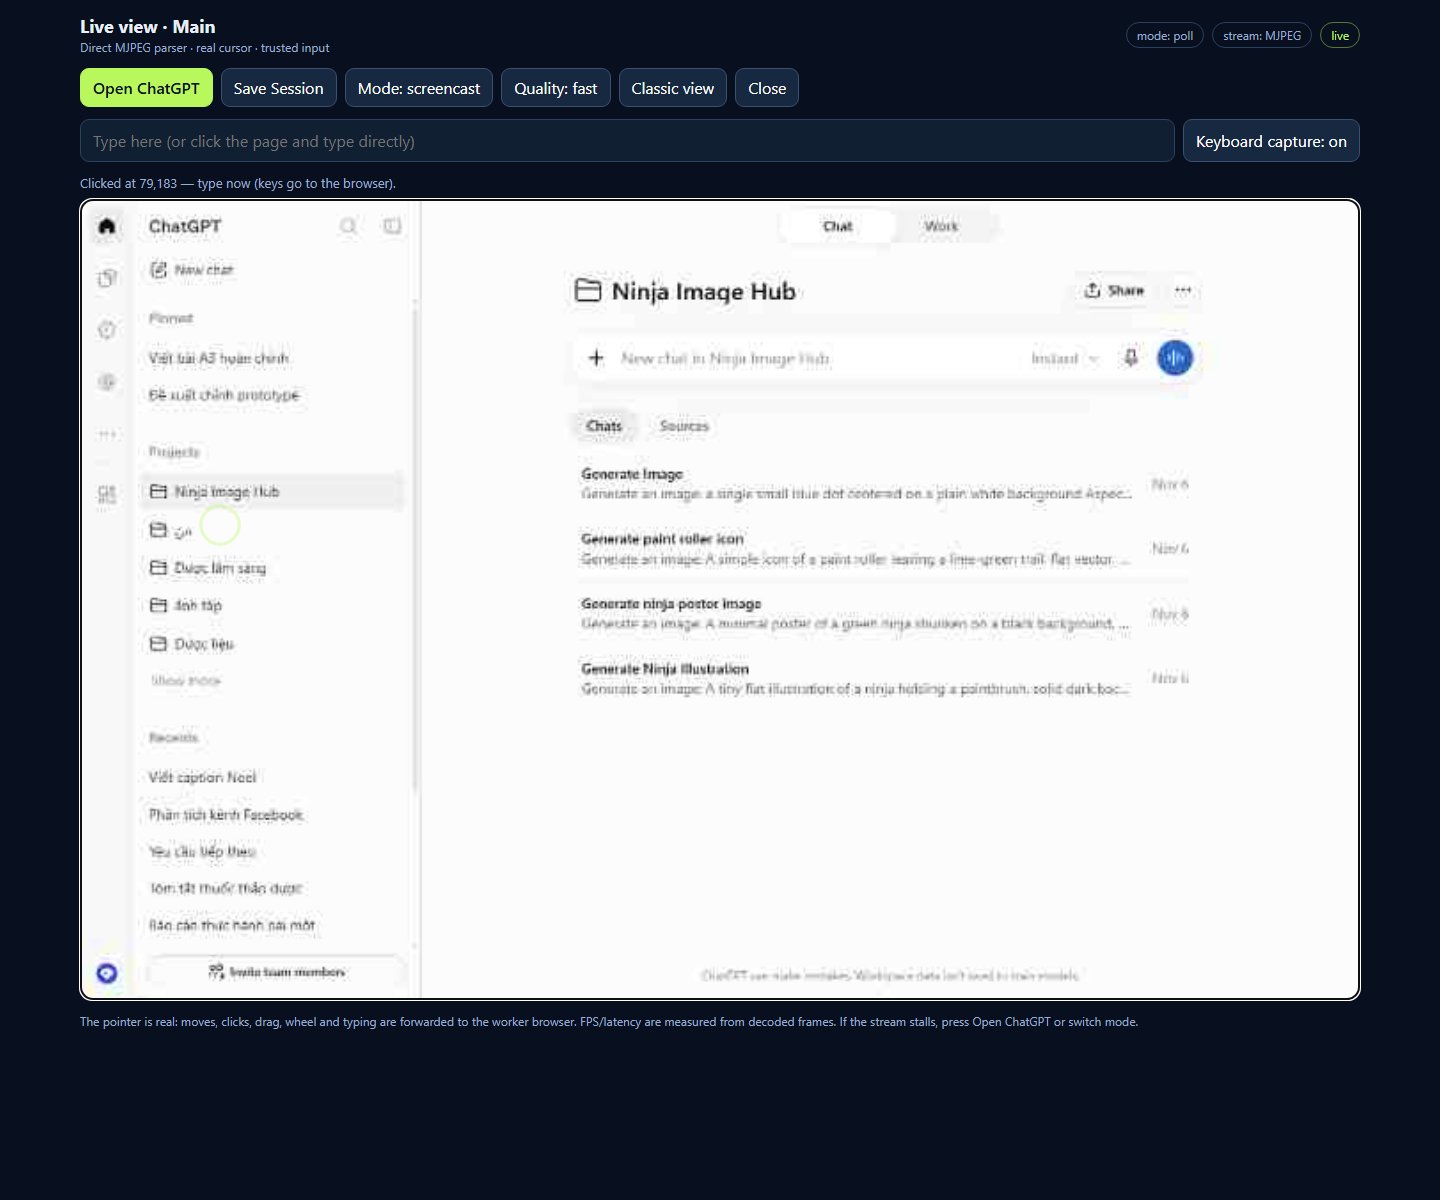
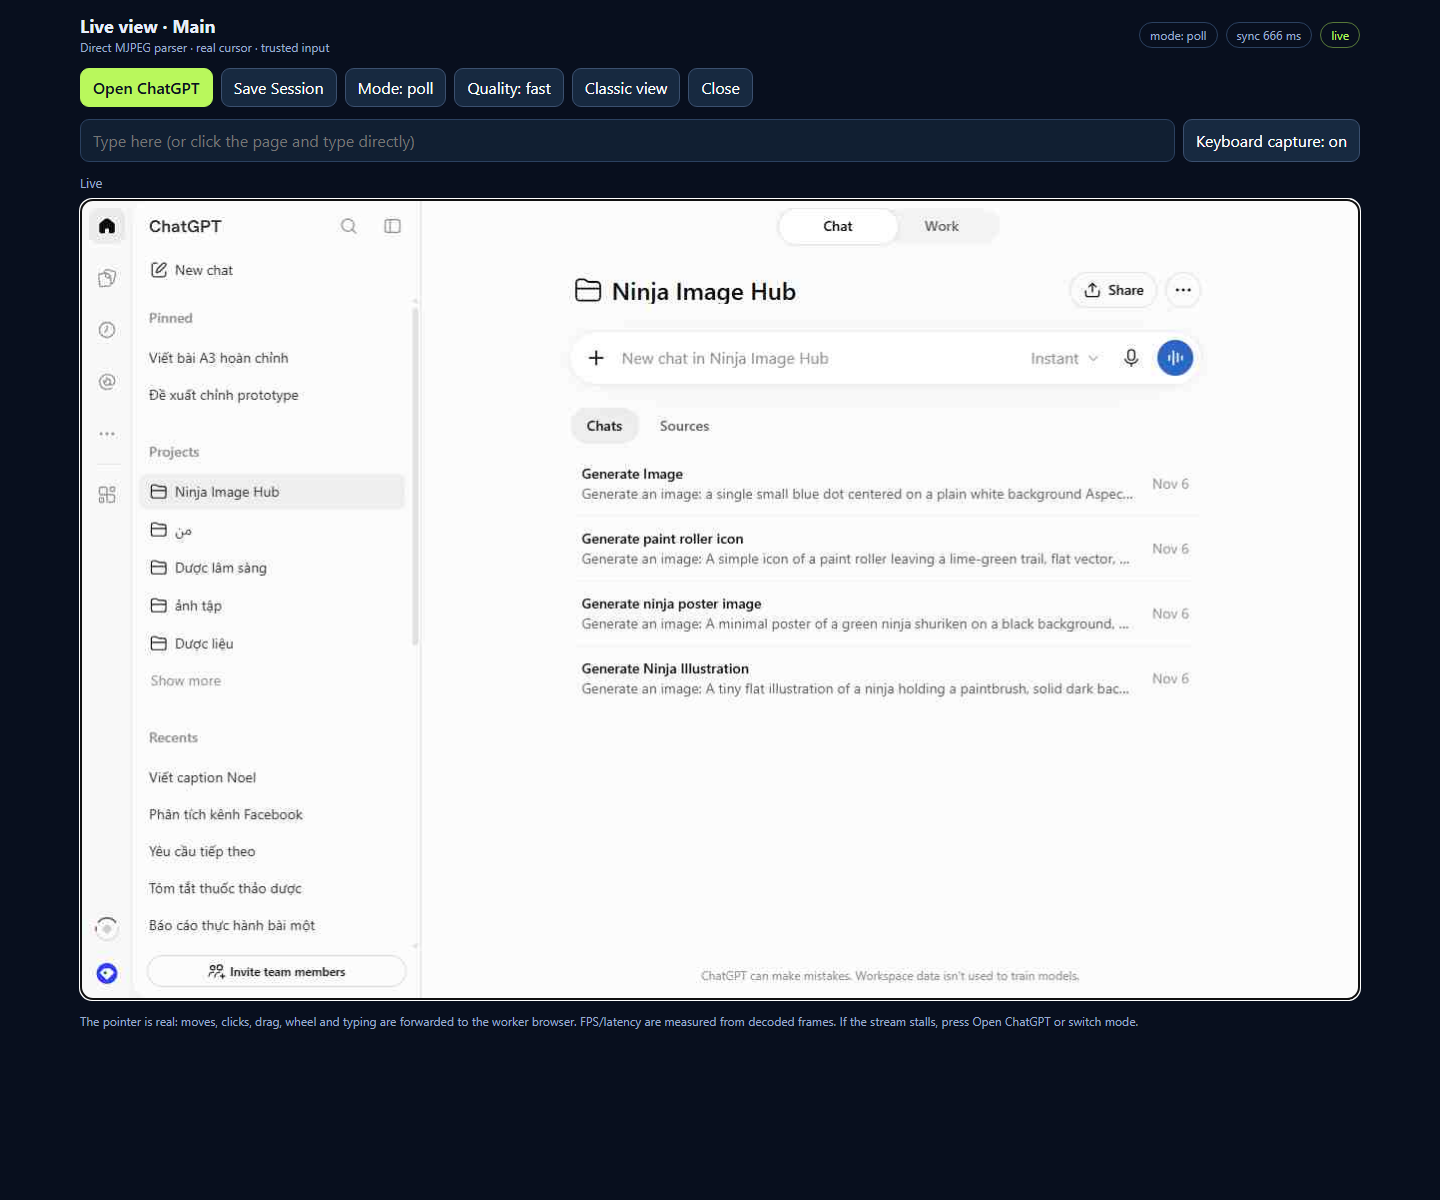
fix(live): make clicks reliable and stop black/slow frames
Root causes found while debugging 'clicks do nothing':
1. screencast returns BLACK frames when the worker Chrome window is minimized or
   occluded - the page looked frozen even though input was delivered;
2. captureScreenshot in that state took ~1 s, so 'sync' showed ~950 ms;
3. pointerdown could use a stale coordinate because the last pointermove was
   throttled away.

Fixes:
- poll mode is the default again (captures the surface reliably) with automatic
  black-frame detection that switches away from screencast if it goes dark
- new POST /api/accounts/{id}/remote/focus restores/foregrounds the worker window
  on Windows (no-op on Linux/Xvfb); live view calls it before streaming
- every click now sends a fresh mouse move + press in one batch, and double-click
  sends two full click pairs
- live page keeps focus on the remote page (no panel-input steal); ripple + smart
  cursor kept; docs refreshed
- verified: input POST 200, ripple fires, canvas updates after clicks; 117 passed

diff --git a/hub/live_page.py b/hub/live_page.py
@@ -45,7 +45,7 @@ PAGE = r"""<!doctype html>
   <div class="toolbar">
     <button class="primary" id="openChatgpt">Open ChatGPT</button>
     <button id="saveSession">Save Session</button>
-    <button id="modeBtn">Mode: screencast</button>
+    <button id="modeBtn">Mode: poll</button>
     <button id="qualityBtn">Quality: fast</button>
     <button id="classicView">Classic view</button>
     <button id="closeView">Close</button>
@@ -65,7 +65,7 @@ PAGE = r"""<!doctype html>
 const ACCOUNT = __ACCOUNT__;
 const CSRF = __CSRF__;
 const CLASSIC_URL = __CLASSIC__;
-let mode = localStorage.getItem('ninja-live-mode') || 'screencast';
+let mode = localStorage.getItem('ninja-live-mode') || 'poll';
 let quality = localStorage.getItem('ninja-live-quality') || 'fast';
 document.getElementById('qualityBtn').textContent = 'Quality: ' + quality;
 const ripple = document.getElementById('ripple');
@@ -191,6 +191,37 @@ function indexOfBytes(buffer, needle, from) {
   return -1;
 }
 
+let blackSince = 0;
+let lastBlackCheck = 0;
+
+function checkBlackFrame() {
+  const now = performance.now();
+  if (now - lastBlackCheck < 1000) return;
+  lastBlackCheck = now;
+  try {
+    const sample = ctx.getImageData(0, 0, canvas.width, canvas.height).data;
+    let dark = 0;
+    let total = 0;
+    for (let i = 0; i < sample.length; i += 4000) {
+      total++;
+      if (sample[i] < 18 && sample[i + 1] < 18 && sample[i + 2] < 18) dark++;
+    }
+    const isBlack = total > 0 && dark / total > 0.97;
+    if (isBlack) {
+      if (!blackSince) blackSince = now;
+      if (now - blackSince > 2500 && mode === 'screencast') {
+        mode = 'poll';
+        localStorage.setItem('ninja-live-mode', mode);
+        document.getElementById('modeBtn').textContent = 'Mode: ' + mode;
+        setStatus('Screencast returned black frames (window occluded) — switched to poll.', 'good');
+        startStream();
+      }
+    } else {
+      blackSince = 0;
+    }
+  } catch (err) {}
+}
+
 async function drawFrame(bytes) {
   try {
     const blob = new Blob([bytes], { type: 'image/jpeg' });
@@ -212,6 +243,8 @@ async function drawFrame(bytes) {
     lastFrameAt = now;
   } catch (err) {}
 }
+
+setInterval(checkBlackFrame, 1200);
 
 // ---- local cursor + input forwarding
 function point(event) {
@@ -299,6 +332,9 @@ canvas.addEventListener('pointerdown', (event) => {
   const p = point(event);
   if (!p) return;
   canvas.setPointerCapture?.(event.pointerId);
+  // Always send a fresh move before the press: the last move may have been throttled
+  // and a stale coordinate is the most common reason a click 'does nothing'.
+  enqueue({ type: 'mouse', action: 'move', x: p.x, y: p.y });
   enqueue({ type: 'mouse', action: 'down', x: p.x, y: p.y, button: event.button === 2 ? 'right' : 'left', buttons: 1 });
   canvas.focus();
 });
@@ -318,6 +354,18 @@ canvas.addEventListener('wheel', (event) => {
   if (!p) return;
   enqueue({ type: 'mouse', action: 'wheel', x: p.x, y: p.y, deltaX: event.deltaX, deltaY: event.deltaY });
 }, { passive: false });
+
+canvas.addEventListener('dblclick', (event) => {
+  const p = point(event);
+  if (!p) return;
+  showRipple(event);
+  for (let i = 0; i < 2; i++) {
+    enqueue({ type: 'mouse', action: 'move', x: p.x, y: p.y });
+    enqueue({ type: 'mouse', action: 'down', x: p.x, y: p.y, button: 'left', buttons: 1 });
+    enqueue({ type: 'mouse', action: 'up', x: p.x, y: p.y, button: 'left', buttons: 0 });
+  }
+  setStatus('Double-click at ' + p.x + ',' + p.y);
+});
 
 canvas.addEventListener('contextmenu', (event) => event.preventDefault());
 
@@ -396,6 +444,7 @@ document.getElementById('closeView').addEventListener('click', () => window.clos
 
 (async function boot() {
   try {
+    await postJson('/focus', {});
     await getJson('/init');
     startStream();
   } catch (err) {

diff --git a/hub/workers.py b/hub/workers.py
@@ -579,6 +579,7 @@ router.get('/login/live', async (req, res) => {
     };
 
     if (mode === 'screencast') {
+      try { await page.bringToFront(); } catch (e) {}
       // Keep the compositor busy with a 2px pulse: screencast only emits on repaint.
       await page.evaluate(() => {
         if (document.getElementById('__ninja_live_pulse__')) return;
@@ -696,6 +697,7 @@ router.post('/login/input', async (req, res) => {
   try {
     await enterManualLogin({ acquire: false });
     const page = await getLoginPage();
+    try { await page.bringToFront(); } catch (e) {}
     client = await page.context().newCDPSession(page);
     const events = Array.isArray(req.body && req.body.events) ? req.body.events.slice(0, 200) : [];
     for (const ev of events) {
@@ -1220,6 +1222,53 @@ def stop_worker(ctx, account_id):
                 psutil.wait_procs(children, timeout=3)
         if h:
             h.close()
+
+
+def focus_worker_window(ctx, acc):
+    """Bring the worker's Chrome window to the foreground (Windows only).
+
+    A minimized/occluded window makes captureScreenshot slow and CDP screencast
+    return black frames. Linux/Xvfb has no such state, so this is a no-op there.
+    """
+    if sys.platform != "win32":
+        return False
+    import ctypes
+    import ctypes.wintypes as wt
+
+    with ctx.proc_guard:
+        process = ctx.processes.get(acc["id"])
+    if not process or process.poll() is not None:
+        return False
+    try:
+        pids = {process.pid}
+        pids.update(child.pid for child in psutil.Process(process.pid).children(recursive=True))
+    except psutil.Error:
+        return False
+    try:
+        user32 = ctypes.windll.user32
+    except AttributeError:
+        return False
+    found = []
+
+    @ctypes.WINFUNCTYPE(wt.BOOL, wt.HWND, wt.LPARAM)
+    def visit(hwnd, _lparam):
+        pid = wt.DWORD()
+        user32.GetWindowThreadProcessId(hwnd, ctypes.byref(pid))
+        if pid.value in pids and user32.IsWindowVisible(hwnd):
+            found.append(hwnd)
+        return True
+
+    user32.EnumWindows(visit, 0)
+    restored = False
+    for hwnd in found:
+        try:
+            user32.ShowWindow(hwnd, 9)  # SW_RESTORE
+            user32.SetForegroundWindow(hwnd)
+            user32.BringWindowToTop(hwnd)
+            restored = True
+        except Exception:
+            continue
+    return restored
 
 
 def _identity_after_start(ctx, acc):

diff --git a/hub/factory.py b/hub/factory.py
@@ -83,6 +83,7 @@ def create_app():
         "reclaim_orphan_worker",
         "touch_account",
         "display_state",
+        "focus_worker_window",
     ):
         setattr(ctx, name, partial(getattr(workers, name), ctx))
     for name in ("index", "queue_metrics", "analytics"):
@@ -115,6 +116,7 @@ def create_app():
         "live_page",
         "live_stream",
         "live_input",
+        "live_focus",
         "live_cursor",
         "upstream_login_call",
         "remote_init",
@@ -294,6 +296,10 @@ def create_app():
         "/api/accounts/{account_id}/remote/cursor",
         dependencies=[Depends(ctx.require_admin)],
     )(ctx.live_cursor)
+    app.post(
+        "/api/accounts/{account_id}/remote/focus",
+        dependencies=[Depends(ctx.csrf_admin)],
+    )(ctx.live_focus)
     app.get(
         "/api/accounts/{account_id}/remote/url",
         dependencies=[Depends(ctx.require_admin)],

diff --git a/hub/login.py b/hub/login.py
@@ -421,3 +421,13 @@ async def live_cursor(ctx, account_id: str, x: int = 0, y: int = 0):
         return response.json()
     except ValueError:
         raise HTTPException(502, "Invalid cursor payload.")
+
+
+async def live_focus(ctx, account_id: str):
+    """Make sure the worker window is not minimized before streaming/clicking."""
+    acc = ctx.query_account(account_id)
+    if not acc:
+        raise HTTPException(404, "Account not found.")
+    ctx.touch_account(account_id)
+    restored = bool(ctx.focus_worker_window(acc)) if hasattr(ctx, "focus_worker_window") else False
+    return {"ok": True, "restored": restored, "platform": "win32" if restored else "other"}
